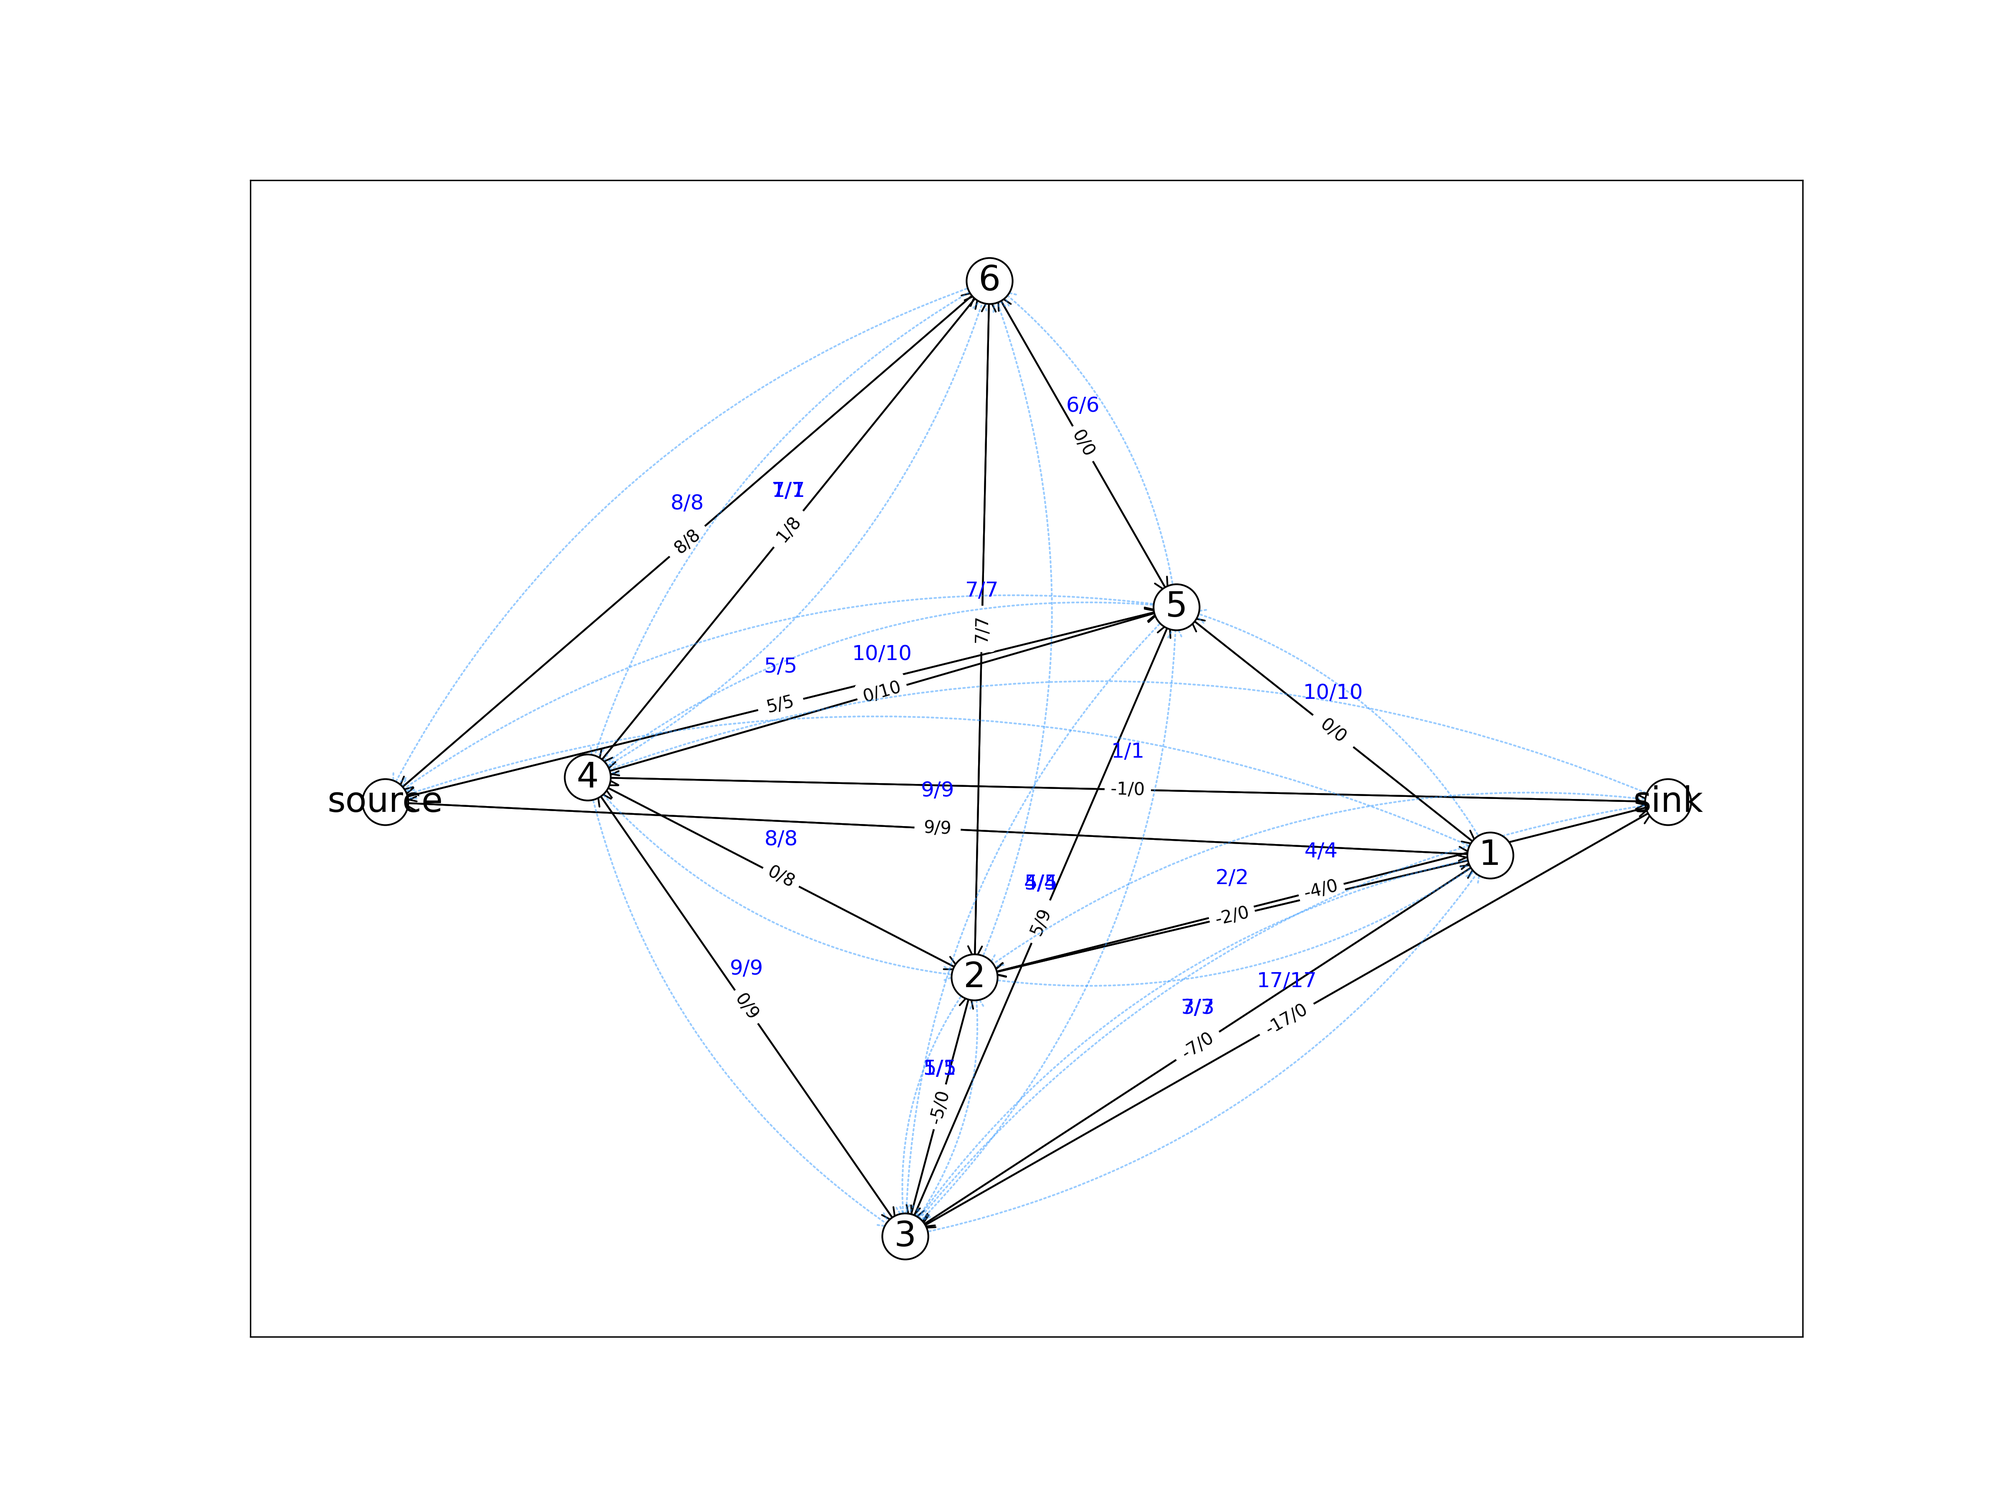
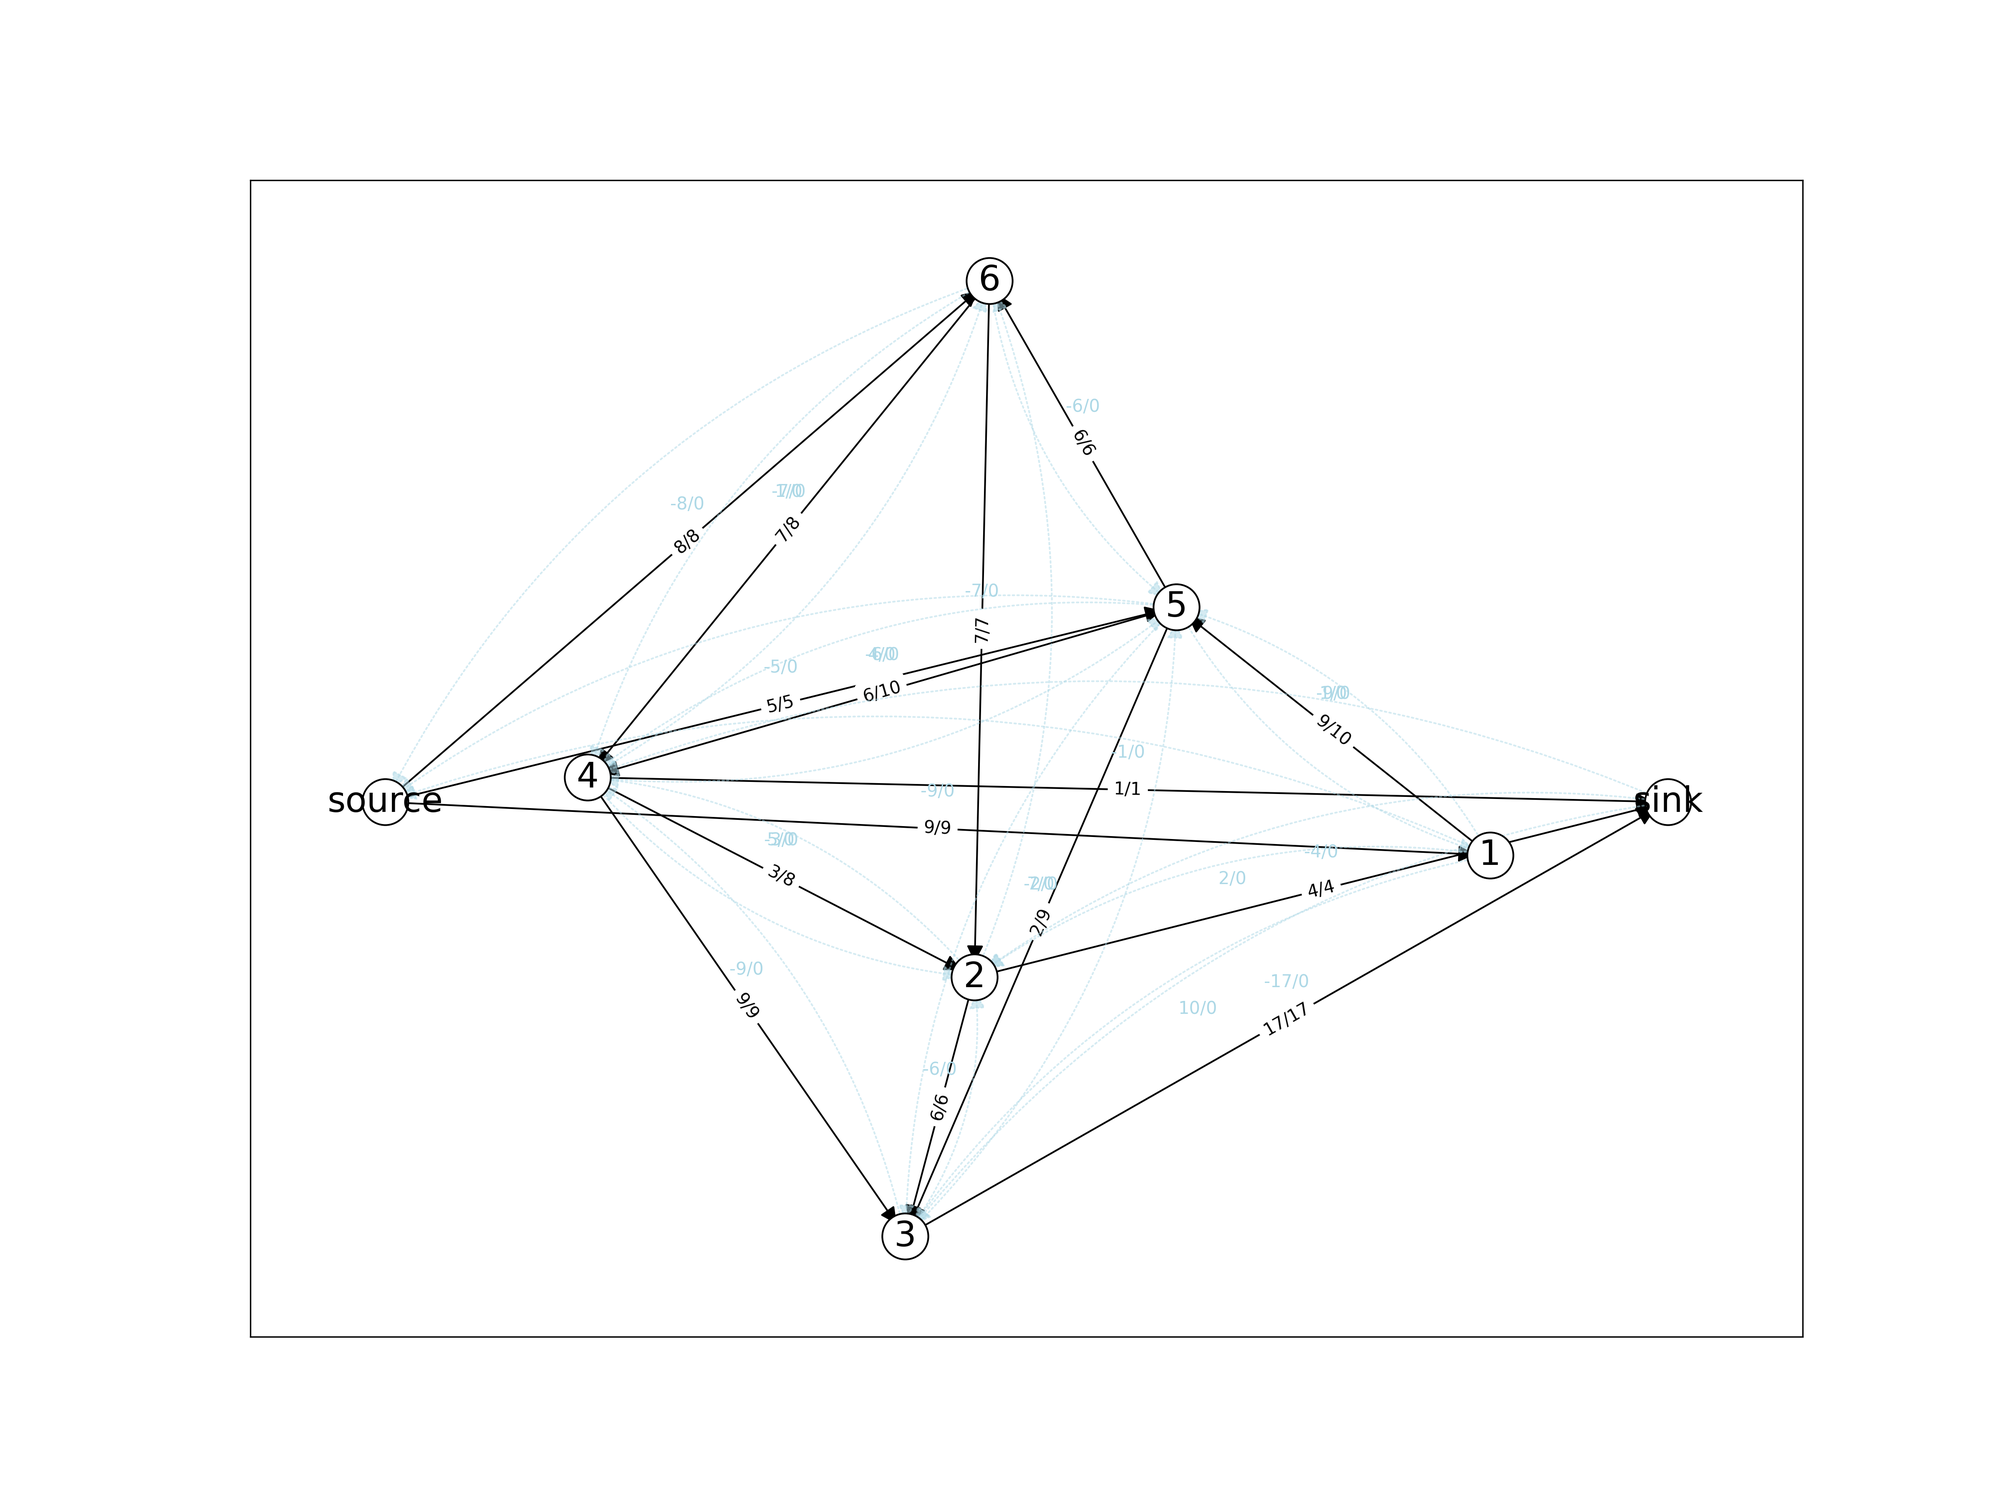
funktionierender FF jetzt

diff --git a/lib/visualisation.py b/lib/visualisation.py
@@ -3,6 +3,9 @@ import networkx as nx
 import matplotlib.pyplot as plt
 import os
 
+# NOch nicht fertig --> Graph ist sehr unübersichtlich
+# Zu sehr großem Anteil von ChatGPT übernommen; einzelne Teile wurden selber angepasst, um Übersichtlichkeit zu gewährleisten
+
 def visualize_final_graph(input_path="C:/Users/fabia/OneDrive/Dokumente/Master_FU/Semester 2/Netzwerke/F&F/F-F/Data/chvatal_small_final_network_graph.json", output_path="Figures/final_graph_small.png"):
     with open(input_path, "r") as infile:
         data = json.load(infile)
@@ -19,17 +22,13 @@ def visualize_final_graph(input_path="C:/Users/fabia/OneDrive/Dokumente/Master_F
     # Create a residual graph
     R = nx.DiGraph()
     for u, v, d in G.edges(data=True):
-        # Forward edge in the residual graph
-        if d['capacity'] > 0:
-            residual_capacity = d['capacity'] - d['flow']
-            if residual_capacity > 0:
-                R.add_edge(u, v, capacity=residual_capacity, flow=0)
-        # Reverse edge in the residual graph
         if d['flow'] > 0:
-            R.add_edge(v, u, capacity=d['flow'], flow=0)
+            R.add_edge(v, u, capacity=0, flow=d['flow'])  # Add a residual edge from v to u with flow equal to the flow and capacity 0
+        if d['capacity'] > d['flow']:
+            R.add_edge(u, v, capacity=0, flow=d['capacity'] - d['flow'])  # Add a residual edge from u to v with flow equal to the remaining capacity and capacity 0
 
     # Positioning nodes: source on the left, sink on the right, others in the middle
-    pos = nx.spring_layout(G, seed=42, k=1)  # Increased k for more spacing
+    pos = nx.spring_layout(G, seed=42, k=1)
 
     # Fixing the positions of source and sink
     fixed_positions = {}
@@ -39,43 +38,143 @@ def visualize_final_graph(input_path="C:/Users/fabia/OneDrive/Dokumente/Master_F
         elif data["nodes"][node_id]["target"]:
             fixed_positions[node_id] = (1, 0)
     
-    pos.update(fixed_positions)  # update with fixed positions
+    pos.update(fixed_positions)
 
-    # Create a figure with higher resolution
-    plt.figure(figsize=(16, 12))  # Higher resolution and larger figure size
+    plt.figure(figsize=(16, 12))
 
-    # Draw nodes with circles around them
     nx.draw_networkx_nodes(G, pos, node_size=700, node_color="white", edgecolors="black")
 
-    # Draw edges with labels for flow/capacity
     edge_labels = {}
     for u, v, d in G.edges(data=True):
-        label = f"{d['flow']}/{d['capacity']}"
-        edge_labels[(u, v)] = label
+        if d["flow"] > 0:
+            label = f"{d['flow']}/{d['capacity']}"
+            edge_labels[(u, v)] = label
 
-    # Drawing regular edges
-    nx.draw_networkx_edges(G, pos, edgelist=G.edges(), arrowstyle='->', arrowsize=20)
+    # Drawing regular edges with direction
+    nx.draw_networkx_edges(G, pos, edgelist=edge_labels.keys(), arrowstyle='-|>', arrowsize=20, edge_color='black')
     nx.draw_networkx_edge_labels(G, pos, edge_labels=edge_labels, font_color='black', font_size=10)
 
     # Draw residual edges with a slight curve and labels
     for u, v, d in R.edges(data=True):
-        rad = 0.2  # increased curvature for better separation
-        nx.draw_networkx_edges(R, pos, edgelist=[(u, v)], arrowstyle='->', style='dotted', edge_color='#3399FF', arrowsize=20, alpha=0.5, connectionstyle=f'arc3,rad={rad}')
-        # Adding edge labels for residual edges
-        label = f"{d['capacity']}/{d['capacity']}"  # Residual edges have their own capacities
-        pos_mid = (pos[u] + pos[v]) / 2  # Position for the label
-        plt.text(pos_mid[0], pos_mid[1] + 0.05, label, fontsize=12, color='blue', ha='center')  # Adjusted position
+        # Draw the residual edge if there is remaining capacity in the forward direction or there is flow in the backward direction
+        if (G.has_edge(u, v) and G[u][v]['capacity'] > G[u][v]['flow']) or (G.has_edge(v, u) and G[v][u]['flow'] > 0):
+            rad = 0.2  # increased curvature for better separation
+            nx.draw_networkx_edges(R, pos, edgelist=[(u, v)], arrowstyle='-|>', style='dotted', edge_color='lightblue', arrowsize=20, alpha=0.5, connectionstyle=f'arc3,rad={rad}')
+            # Adding edge labels for residual edges
+            if G.has_edge(v, u) and G[v][u]['flow'] > 0:
+                label = f"-{d['flow']}/0"  # Show the flow as negative and capacity as 0
+            else:
+                label = f"{d['flow']}/0"  # Show the flow as the remaining capacity and capacity as 0
+            pos_mid = (pos[u] + pos[v]) / 2  # Position for the label
+            plt.text(pos_mid[0], pos_mid[1] + 0.05, label, fontsize=10, color='lightblue', ha='center')  # Adjusted position
 
-    # Draw node labels
     nx.draw_networkx_labels(G, pos, font_size=20, font_family="sans-serif")
 
-    # Ensure the Figures directory exists
     os.makedirs(os.path.dirname(output_path), exist_ok=True)
 
-    # Save the figure with higher resolution
-    plt.savefig(output_path, dpi=300)  # Save at 300 dpi
+    plt.savefig(output_path, dpi=300)
     plt.close()
 
-# For standalone run
 if __name__ == "__main__":
     visualize_final_graph()
+
+
+
+
+"Copilot"
+
+# import json
+# import networkx as nx
+# import matplotlib.pyplot as plt
+# import os
+
+# def visualize_final_graph(input_path="C:/Users/fabia/OneDrive/Dokumente/Master_FU/Semester 2/Netzwerke/F&F/F-F/Data/chvatal_small_final_network_graph.json", output_path="Figures/final_graph_small.png"):
+#     with open(input_path, "r") as infile:
+#         data = json.load(infile)
+
+#     G = nx.DiGraph()
+
+#     for node_id in data["nodes"]:
+#         G.add_node(node_id)
+
+#     # Add edges with capacities and flows
+#     for arc_data in data["arcs"]:
+#         G.add_edge(arc_data["start"], arc_data["end"], capacity=arc_data["capacity"], flow=arc_data["flow"])
+
+#     # Create a residual graph
+#     R = nx.DiGraph()
+#     for u, v, d in G.edges(data=True):
+#         residual_capacity = d['capacity'] - d['flow']
+#         if residual_capacity > 0:
+#             R.add_edge(u, v, capacity=residual_capacity, flow=0)
+#         if d['flow'] > 0:
+#             R.add_edge(v, u, capacity=d['flow'], flow=0)
+
+#     # Positioning nodes: source on the left, sink on the right, others in the middle
+#     pos = nx.spring_layout(G, seed=42, k=1)  # Increased k for more spacing
+
+#     # Fixing the positions of source and sink
+#     fixed_positions = {}
+#     for node_id in G.nodes():
+#         if data["nodes"][node_id]["source"]:
+#             fixed_positions[node_id] = (-1, 0)
+#         elif data["nodes"][node_id]["target"]:
+#             fixed_positions[node_id] = (1, 0)
+    
+#     pos.update(fixed_positions)  # update with fixed positions
+
+#     # Create a figure with higher resolution
+#     plt.figure(figsize=(16, 12))  # Higher resolution and larger figure size
+
+#     # Draw nodes with circles around them
+#     nx.draw_networkx_nodes(G, pos, node_size=700, node_color="white", edgecolors="black")
+
+#     # Draw edges with labels for flow/capacity
+#     edge_labels = {}
+#     for u, v, d in G.edges(data=True):
+#         if d["flow"] > 0:
+#             label = f"{d['flow']}/{d['capacity']}"
+#             edge_labels[(u, v)] = label
+
+#     # Drawing regular edges with direction
+#     nx.draw_networkx_edges(G, pos, edgelist=edge_labels.keys(), arrowstyle='-|>', arrowsize=20, edge_color='black')
+#     nx.draw_networkx_edge_labels(G, pos, edge_labels=edge_labels, font_color='black', font_size=10)
+
+#     # # Draw residual edges with a slight curve and labels
+#     # for u, v, d in R.edges(data=True):
+#     #     # Draw the residual edge if there is remaining capacity in the forward direction or there is flow in the backward direction
+#     #     if (G.has_edge(u, v) and G[u][v]['capacity'] > G[u][v]['flow']) or (G.has_edge(v, u) and G[v][u]['flow'] > 0):
+#     #         rad = 0.2  # increased curvature for better separation
+#     #         nx.draw_networkx_edges(R, pos, edgelist=[(u, v)], arrowstyle='-|>', style='dotted', edge_color='lightblue', arrowsize=20, alpha=0.5, connectionstyle=f'arc3,rad={rad}')
+#     #         # Adding edge labels for residual edges
+#     #         label = f"{d['capacity']}/{d['capacity']}"  # Residual edges have their own capacities
+#     #         pos_mid = (pos[u] + pos[v]) / 2  # Position for the label
+#     #         plt.text(pos_mid[0], pos_mid[1] + 0.05, label, fontsize=10, color='lightblue', ha='center')  # Adjusted position
+
+#     # Draw residual edges with a slight curve and labels
+#     for u, v, d in R.edges(data=True):
+#         # Draw the residual edge if there is remaining capacity in the forward direction or there is flow in the backward direction
+#         if (G.has_edge(u, v) and G[u][v]['capacity'] > G[u][v]['flow']) or (G.has_edge(v, u) and G[v][u]['flow'] > 0):
+#             rad = 0.2  # increased curvature for better separation
+#             nx.draw_networkx_edges(R, pos, edgelist=[(u, v)], arrowstyle='-|>', style='dotted', edge_color='lightblue', arrowsize=20, alpha=0.5, connectionstyle=f'arc3,rad={rad}')
+#             # Adding edge labels for residual edges
+#             if G.has_edge(v, u) and G[v][u]['flow'] > 0:
+#                 label = f"-{G[v][u]['flow']}/0"  # Show the flow as negative and capacity as 0
+#             else:
+#                 label = f"0/{d['capacity']}"  # Show the flow as 0 and capacity as the remaining capacity
+#             pos_mid = (pos[u] + pos[v]) / 2  # Position for the label
+#             plt.text(pos_mid[0], pos_mid[1] + 0.05, label, fontsize=10, color='lightblue', ha='center')  # Adjusted position
+
+#     # Draw node labels
+#     nx.draw_networkx_labels(G, pos, font_size=20, font_family="sans-serif")
+
+#     # Ensure the Figures directory exists
+#     os.makedirs(os.path.dirname(output_path), exist_ok=True)
+
+#     # Save the figure with higher resolution
+#     plt.savefig(output_path, dpi=300)  # Save at 300 dpi
+#     plt.close()
+
+# # For standalone run
+# if __name__ == "__main__":
+#     visualize_final_graph()

diff --git a/lib/FF.py b/lib/FF.py
@@ -5,21 +5,46 @@ from Nodes import Node
 def FordFulkerson(network):
     source = network.getSource()
     sink = network.getSink()
-    if source == None or sink == None:
+    if source is None or sink is None:
         return "Netzwerk hat weder Quelle noch Senke"
-    
-    path = network.getPath(source.id, sink.id, [])
+
+    def flussErhoehen_path(source, sink):
+        visited = set()
+        stack = [(source, [])]
+
+# Stack als Ergänzung
+        while stack:
+            current_node, path = stack.pop()
+            if current_node in visited:
+                continue
+            visited.add(current_node)
+
+            for arc in network.network[current_node]:
+                residual_capacity = arc.capacity - arc.flow
+                if residual_capacity > 0 and arc.end not in visited:
+                    new_path = path + [(arc, residual_capacity)]
+                    if arc.end == sink:
+                        path_str = " -> ".join([f"{arc.start}->{arc.end} (Restkapazität: {residual_capacity})" for arc, residual_capacity in new_path])
+                        print(f"Pfad zur Senke gefunden: {path_str}")
+                        return new_path
+                    stack.append((arc.end, new_path))
+        print("Kein flussvergrößernder Pfad gefunden")
+        return None
+
+    max_flow = 0
+    path = flussErhoehen_path(source.id, sink.id)
     while path is not None:
-        flow = min(arc.capacity - arc.flow for arc, _ in path)
-        print(f"Augmenting path found: {path} with flow {flow}")
+        flow = min(residual_capacity for arc, residual_capacity in path)
+        path_str = " -> ".join([f"{arc.start}->{arc.end} (Restkapazität: {residual_capacity})" for arc, residual_capacity in path])
+        print(f"Flussvergrößernder Pfad gefunden: {path_str} mit Fluss {flow}")
         for arc, _ in path:
             arc.flow += flow
-            arc.returnArc.flow -= flow
-            print(f"Updated flow on arc from {arc.start} to {arc.end}: {arc.flow}")
-        path = network.getPath(source.id, sink.id, [])
-    # return sum(arc.flow for arc in network.network[source.id] if arc.end == sink.id)
-    
-    max_flow = sum(arc.flow for arc in network.network[source.id])
-    print(f"FInale Max-FLow-Kapa der Quelle beträgt: {max_flow}")
-    return max_flow
+            arc.returnArc.flow -= flow  # Rückwärtskante aktualisieren
+            print(f"Aktualisierter Fluss auf Kante von {arc.start} nach {arc.end}: {arc.flow}")
+            print(f"Aktualisierter Fluss auf Rückwärtskante von {arc.end} nach {arc.start}: {arc.returnArc.flow}")
+        max_flow += flow
+        print(f"Aktueller maximaler Fluss: {max_flow}")
+        path = flussErhoehen_path(source.id, sink.id)
 
+    print(f"Endgültiger maximaler Fluss: {max_flow}")
+    return max_flow

diff --git a/lib/network.py b/lib/network.py
@@ -33,7 +33,7 @@ class Network:
             print(f"Checking node {node.id}: sink ={node.target}")  # Debug statement
             if node.target == True:
                 return node
-        print("Target not found")
+        print("Sink not found")
         return None
     
     # def getNode(self, id):
@@ -71,28 +71,40 @@ class Network:
                 result = self.getPath(arc.end, end, path + [(arc, residualCapacity)])
                 if result is not None:
                     return result 
+        return None
 
     def addArc(self, start, end, capacity):
     # Hilfefunktionen
+        # if start == end:
+        #     return "Quelle und Senke können nicht identisch sein"
+        # if not self.getNodesInNetwork(start):
+        #     return "Startknoten nicht gefunden"
+        # if not self.getNodesInNetwork(end):
+        #     return "Endknoten nicht gefunden"
         if start == end:
-            return "Quelle und Senke können nicht identisch sein"
+            raise ValueError("Source and sink cannot be the same")
         if not self.getNodesInNetwork(start):
-            return "Startknoten nicht gefunden"
+            raise ValueError(f"Start node {start} not found")
         if not self.getNodesInNetwork(end):
-            return "Endknoten nicht gefunden"
+            raise ValueError(f"End node {end} not found")
+        
         newArc = Arc(start, end, capacity)
         returnArc = Arc(end, start, 0)
         newArc.returnArc = returnArc
         returnArc.returnArc = newArc
+
         if start not in self.network:
             self.network[start] = []
+
         if end not in self.network:
             self.network[end] = []
         node = self.getNode(start) # Startknoten
-        returnNode = self.getNode(end)
+        returnNode = self.getNode(end) # Endknoten
         self.network[node.id].append(newArc)
         self.network[returnNode.id].append(returnArc)  
 
         # ChatGPT Ergänzungen
         self.arcs.append(newArc)
         self.arcs.append(returnArc)
+        print(f"Added arc from {start} to {end} with capacity {capacity}")
+        print(f"Added reverse arc from {end} to {start} with capacity 0")

diff --git a/lib/FF_Appl.py b/lib/FF_Appl.py
@@ -1,11 +1,10 @@
-import requests
 import json
 from network import Network
 from Arc import Arc
 from Nodes import Node
 from FF import FordFulkerson
-import pickle
 import os
+import time
 
 # Load the JSON data
 # data = json.load(open('C:/Users/fabia/OneDrive/Dokumente/Master_FU/Semester 2/Netzwerke/F&F/F-F/Data/transformed_start_end.json'))
@@ -52,11 +51,25 @@ for node_id in data["nodes"]:
 for arc_data in data["arcs"]:
     network.addArc(arc_data["start"], arc_data["end"], arc_data["capacity"])
 
+# Timer starten
+start_time = time.time()
+
 # Calculate max flow
 max_flow = FordFulkerson(network)
+
+# Timer stoppen
+end_time = time.time()
+
+# Laufzeit berechnen
+running_time = end_time - start_time
+
+# Ergebnisse
 print(f"Max flow: {max_flow}")
+print(f"Laufzeit: {running_time} Sekunden")
+
 
 # Graph abspeichern
+# Kommentare löschen um neuen Graphen zu speichern
 final_network = {
     "nodes": {node_id: {"source": node.source, "target": node.target} for node_id, node in network.nodes.items()},
     "arcs": [{"start": arc.start, "end": arc.end, "capacity": arc.capacity, "flow": arc.flow} for arc in network.getArcs()]
